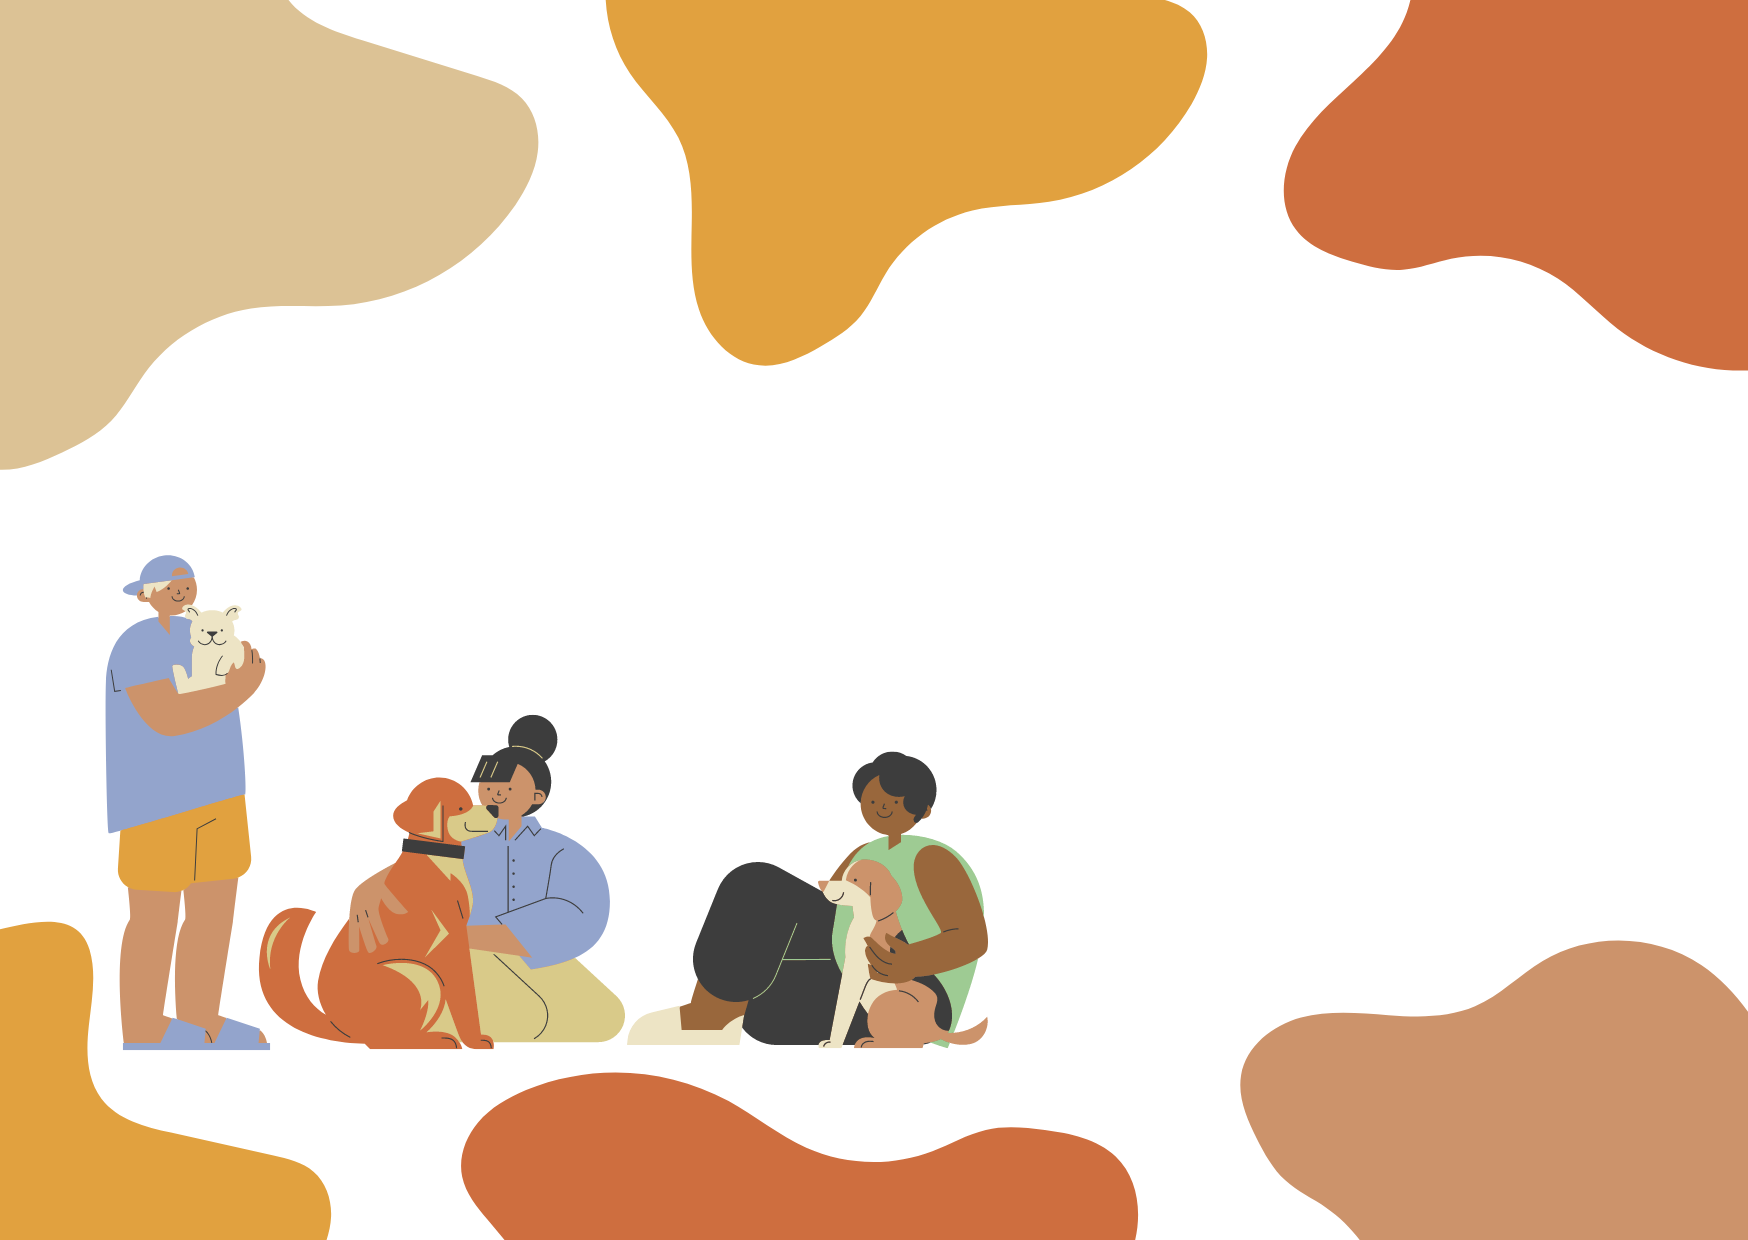
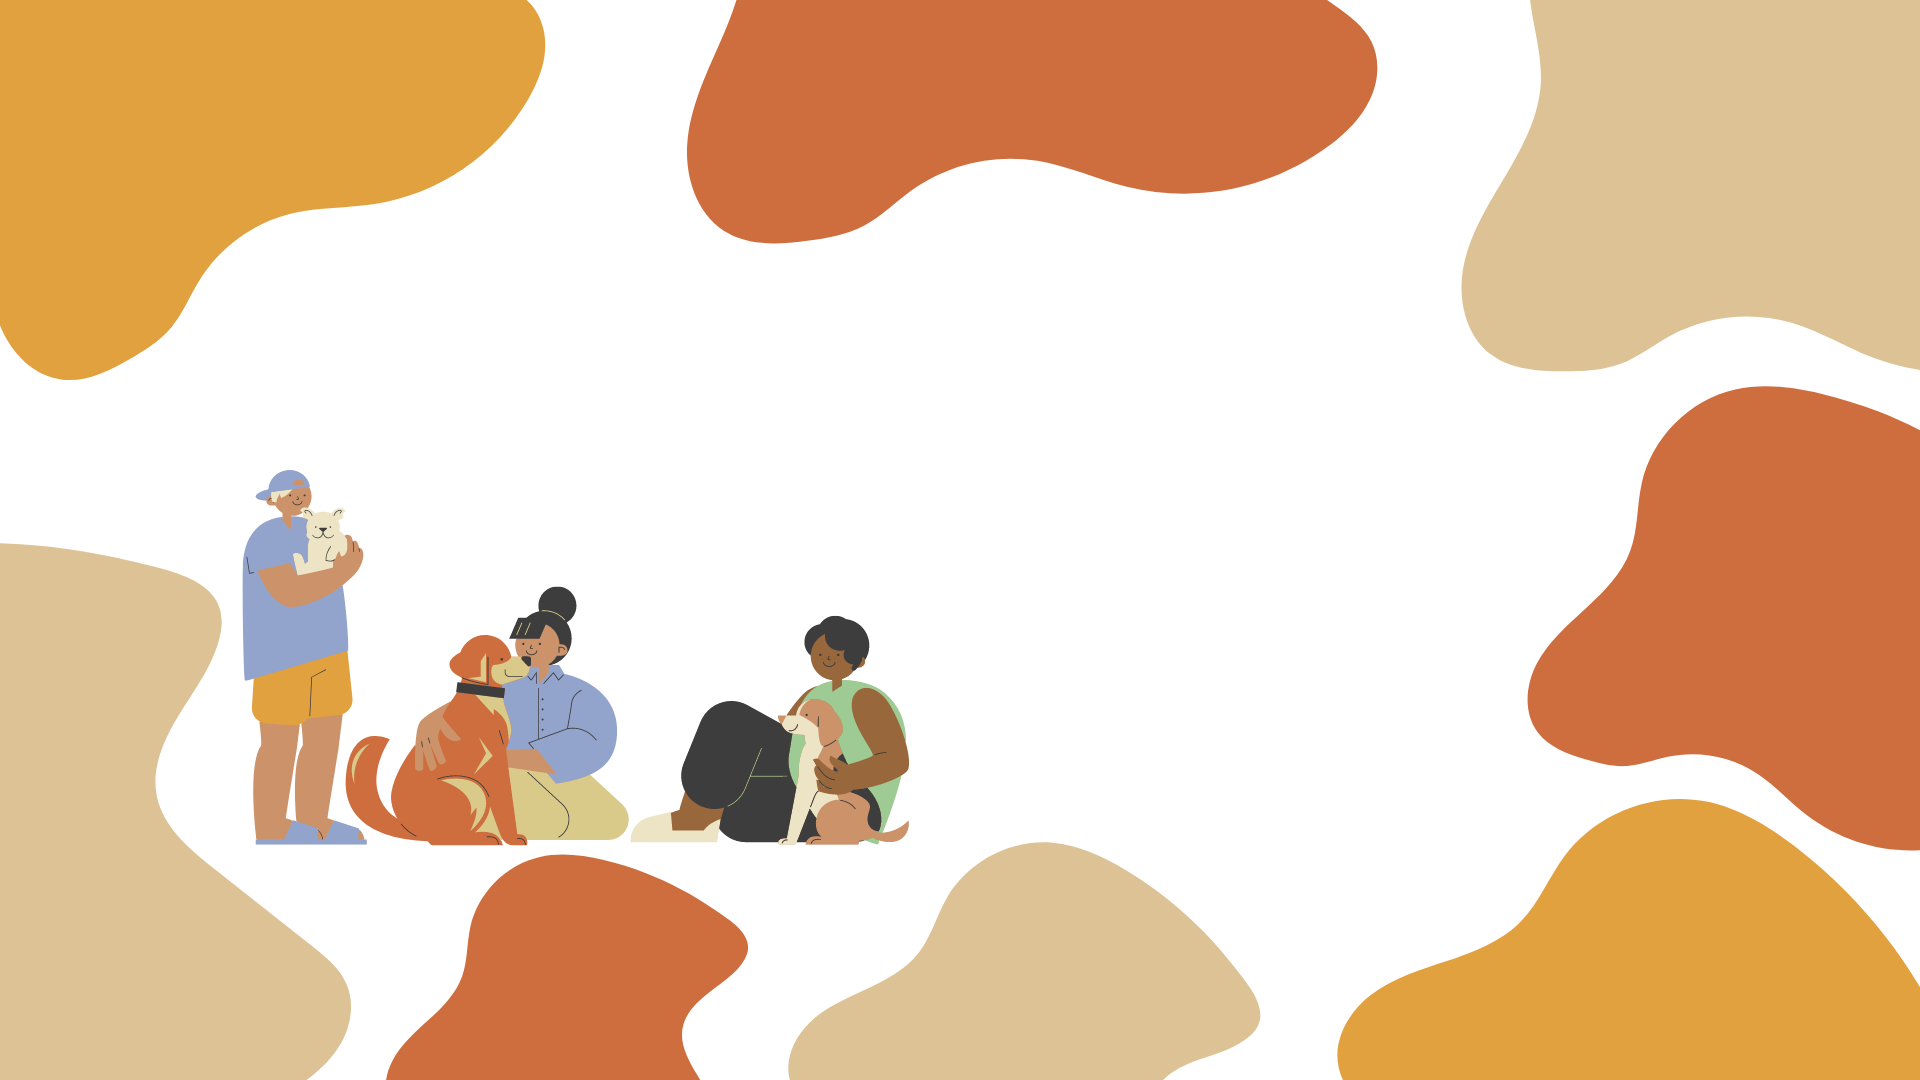
landing terminada estilos navbar

diff --git a/client/src/components/LandingPage.jsx b/client/src/components/LandingPage.jsx
@@ -34,79 +34,79 @@ export default function LandingPage() {
     })
 
     return (
-        <div id="landing" className="flex w-screen">
-        <div className="flex flex-col-6 m-5 mx-9 mt-8 w-screen items-center">
-            <div className="text-gray-800 m-14 p-14">
-                <h1 className="text-6xl font-semibold">Bienvenidos a </h1>
-                <p className="text-6xl font-normal italic">'Happy Tails'</p>
-                <br />
-                <p className="self-center mb-6 text-xl font-light text-gray-600 sm:text-2xl">Somos una organización sin fines de lucro con el objetivo de encontrar un hogar feliz para nuestros amigos de 4 patas...</p>
+        <div id="landing" className="flex">
+            <div className="flex flex-col-6 items-center">
+                <div className="text-gray-800 p-20 pt-0 tracking-wide">
+                    <h1 className="text-6xl font-semibold">Bienvenidos a </h1>
+                    <p className="text-6xl font-normal italic bg-gray">'Happy Tails'</p>
+                    <br />
+                    <p className="self-center mb-6 text-xl font-light italic tracking-wide text-gray-600 sm:text-2xl">Somos una organización sin fines de lucro con el objetivo de encontrar un hogar feliz para nuestros amigos de 4 patas...</p>
 
-                {/* <img src="s" /> */}
+                    {/* <img src="s" /> */}
+
+                </div>
+
+                <div className="flex flex-col w-full max-w-md m-14 mr-24 mt-0 py-8 bg-amber-600 rounded-lg shadow sm:px-6 md:px-8 lg:px-10">
+                    <div className="self-center mb-6 text-xl font-light text-gray-600 sm:text-2xl dark:text-white">
+                        Ingrese a su cuenta
+                    </div>
+                    <div className="mt-8">
+                        <form action="#" autoComplete="off">
+                            <div className="flex flex-col mb-2">
+                                <div className="flex relative">
+                                    <span className="rounded-l-md inline-flex  items-center px-3 border-t bg-white border-l border-b  border-gray-300 text-gray-500 shadow-sm text-sm">
+                                        <svg width="15" height="15" fill="currentColor" viewBox="0 0 1792 1792" xmlns="http://www.w3.org/2000/svg">
+                                            <path d="M1792 710v794q0 66-47 113t-113 47h-1472q-66 0-113-47t-47-113v-794q44 49 101 87 362 246 497 345 57 42 92.5 65.5t94.5 48 110 24.5h2q51 0 110-24.5t94.5-48 92.5-65.5q170-123 498-345 57-39 100-87zm0-294q0 79-49 151t-122 123q-376 261-468 325-10 7-42.5 30.5t-54 38-52 32.5-57.5 27-50 9h-2q-23 0-50-9t-57.5-27-52-32.5-54-38-42.5-30.5q-91-64-262-182.5t-205-142.5q-62-42-117-115.5t-55-136.5q0-78 41.5-130t118.5-52h1472q65 0 112.5 47t47.5 113z">
+                                            </path>
+                                        </svg>
+                                    </span>
+                                    <input type="text" value={input.email} id="sign-in-email" className=" rounded-r-lg flex-1 appearance-none border border-gray-300 w-full py-2 px-4 bg-white text-gray-700 placeholder-gray-400 shadow-sm text-base focus:outline-none focus:ring-2 focus:ring-yellow-800 focus:border-transparent" placeholder="Complete su email" />
+                                    {errors.email && (<p>{errors.email}</p>)}
+                                </div>
+                            </div>
+                            <div className="flex flex-col mb-6">
+                                <div className="flex relative ">
+                                    <span className="rounded-l-md inline-flex  items-center px-3 border-t bg-white border-l border-b  border-gray-300 text-gray-500 shadow-sm text-sm">
+                                        <svg width="15" height="15" fill="currentColor" viewBox="0 0 1792 1792" xmlns="http://www.w3.org/2000/svg">
+                                            <path d="M1376 768q40 0 68 28t28 68v576q0 40-28 68t-68 28h-960q-40 0-68-28t-28-68v-576q0-40 28-68t68-28h32v-320q0-185 131.5-316.5t316.5-131.5 316.5 131.5 131.5 316.5q0 26-19 45t-45 19h-64q-26 0-45-19t-19-45q0-106-75-181t-181-75-181 75-75 181v320h736z">
+                                            </path>
+                                        </svg>
+                                    </span>
+                                    <input type="password" id="sign-in-email" value={input.password} className=" rounded-r-lg flex-1 appearance-none border border-gray-300 w-full py-2 px-4 bg-white text-gray-700 placeholder-gray-400 shadow-sm text-base focus:outline-none focus:ring-2 focus:ring-yellow-800 focus:border-transparent" placeholder="Complete su contraseña" />
+                                    {errors.password && (<p>{errors.password}</p>)}
+                                </div>
+                            </div>
+                            <div className="flex items-center mb-6 -mt-4">
+                                <div className="flex ml-auto">
+                                    <span className="inline-flex text-s font-thin text-gray-500 sm:text-sm dark:text-gray-100 hover:text-gray-700 dark:hover:text-yellow-900">
+                                        ¿Has olvidado tu contraseña? Ingresa aquí.
+                                    </span>
+                                </div>
+                            </div>
+                            <div className="flex w-full">
+                                <Link to="/home" className="py-2 px-4  bg-yellow-800 hover:bg-yellow-900 focus:ring-yellow-900 focus:ring-offset-yellow-200 text-white w-full transition ease-in duration-200 text-center text-base font-semibold shadow-md focus:outline-none focus:ring-2 focus:ring-offset-2  rounded-lg">
+                                    <button type="submit" >
+                                        Ingresar
+                                    </button>
+                                </Link>
+                            </div>
+
+                        </form>
+                    </div>
+
+                    <div className="flex items-center justify-center mt-6">
+
+                        <Link to="/register" className="inline-flex items-center text-s font-thin text-center text-gray-500 hover:text-gray-700 dark:text-gray-100 dark:hover:text-yellow-900">
+                            <span className="ml-2">
+                                ¿No tiene una cuenta? Ingrese aquí.
+                            </span>
+                        </Link>
+
+                    </div>
+
+                </div>
 
             </div>
-
-            <div className="flex flex-col w-full max-w-md m-14 mr-24 py-8 bg-amber-600 rounded-lg shadow sm:px-6 md:px-8 lg:px-10">
-                <div className="self-center mb-6 text-xl font-light text-gray-600 sm:text-2xl dark:text-white">
-                    Ingrese a su cuenta
-                </div>
-                <div className="mt-8">
-                    <form action="#" autoComplete="off">
-                        <div className="flex flex-col mb-2">
-                            <div className="flex relative">
-                                <span className="rounded-l-md inline-flex  items-center px-3 border-t bg-white border-l border-b  border-gray-300 text-gray-500 shadow-sm text-sm">
-                                    <svg width="15" height="15" fill="currentColor" viewBox="0 0 1792 1792" xmlns="http://www.w3.org/2000/svg">
-                                        <path d="M1792 710v794q0 66-47 113t-113 47h-1472q-66 0-113-47t-47-113v-794q44 49 101 87 362 246 497 345 57 42 92.5 65.5t94.5 48 110 24.5h2q51 0 110-24.5t94.5-48 92.5-65.5q170-123 498-345 57-39 100-87zm0-294q0 79-49 151t-122 123q-376 261-468 325-10 7-42.5 30.5t-54 38-52 32.5-57.5 27-50 9h-2q-23 0-50-9t-57.5-27-52-32.5-54-38-42.5-30.5q-91-64-262-182.5t-205-142.5q-62-42-117-115.5t-55-136.5q0-78 41.5-130t118.5-52h1472q65 0 112.5 47t47.5 113z">
-                                        </path>
-                                    </svg>
-                                </span>
-                                <input type="text" value={input.email} id="sign-in-email" className=" rounded-r-lg flex-1 appearance-none border border-gray-300 w-full py-2 px-4 bg-white text-gray-700 placeholder-gray-400 shadow-sm text-base focus:outline-none focus:ring-2 focus:ring-yellow-800 focus:border-transparent" placeholder="Complete su email" />
-                                {errors.email && (<p>{errors.email}</p>)}
-                            </div>
-                        </div>
-                        <div className="flex flex-col mb-6">
-                            <div className="flex relative ">
-                                <span className="rounded-l-md inline-flex  items-center px-3 border-t bg-white border-l border-b  border-gray-300 text-gray-500 shadow-sm text-sm">
-                                    <svg width="15" height="15" fill="currentColor" viewBox="0 0 1792 1792" xmlns="http://www.w3.org/2000/svg">
-                                        <path d="M1376 768q40 0 68 28t28 68v576q0 40-28 68t-68 28h-960q-40 0-68-28t-28-68v-576q0-40 28-68t68-28h32v-320q0-185 131.5-316.5t316.5-131.5 316.5 131.5 131.5 316.5q0 26-19 45t-45 19h-64q-26 0-45-19t-19-45q0-106-75-181t-181-75-181 75-75 181v320h736z">
-                                        </path>
-                                    </svg>
-                                </span>
-                                <input type="password" id="sign-in-email" value={input.password} className=" rounded-r-lg flex-1 appearance-none border border-gray-300 w-full py-2 px-4 bg-white text-gray-700 placeholder-gray-400 shadow-sm text-base focus:outline-none focus:ring-2 focus:ring-yellow-800 focus:border-transparent" placeholder="Complete su contraseña" />
-                                {errors.password && (<p>{errors.password}</p>)}
-                            </div>
-                        </div>
-                        <div className="flex items-center mb-6 -mt-4">
-                            <div className="flex ml-auto">
-                                <span className="inline-flex text-s font-thin text-gray-500 sm:text-sm dark:text-gray-100 hover:text-gray-700 dark:hover:text-yellow-900">
-                                    ¿Has olvidado tu contraseña? Ingresa aquí.
-                                </span>
-                            </div>
-                        </div>
-                        <div className="flex w-full">
-                            <Link to="/home" className="py-2 px-4  bg-yellow-800 hover:bg-yellow-900 focus:ring-yellow-900 focus:ring-offset-yellow-200 text-white w-full transition ease-in duration-200 text-center text-base font-semibold shadow-md focus:outline-none focus:ring-2 focus:ring-offset-2  rounded-lg">
-                                <button type="submit" >
-                                    Ingresar
-                                </button>
-                            </Link>
-                        </div>
-
-                    </form>
-                </div>
-
-                <div className="flex items-center justify-center mt-6">
-                    
-                <Link to="/register" className="inline-flex items-center text-s font-thin text-center text-gray-500 hover:text-gray-700 dark:text-gray-100 dark:hover:text-yellow-900">
-                        <span className="ml-2">
-                            ¿No tiene una cuenta? Ingrese aquí.
-                        </span>
-                </Link>
-    
-                </div>
-
-            </div>
-
-        </div>
         </div>
     )
 

diff --git a/client/src/components/NavBar/NavBar.jsx b/client/src/components/NavBar/NavBar.jsx
@@ -1,37 +1,91 @@
 import React from "react";
 import { Link } from "react-router-dom";
 
+
 export default function NavBar() {
   return (
-    <section className="flex justify-center h-14">
-      <div className="bg-yellow-800 flex justify-between border-b-4 border-white w-screen justify-center content-around items-center px-4">
-        <div className="flex">
-          <h1 className="text-white text-2xl font-semibold">Happy Tails</h1>
-        </div>
-        <div className="flex w-80 justify-around">
-          <Link to={"/home"}>
-            <h2 className="text-black text-2xl font-semibold">Home</h2>
-          </Link>
-          <Link to={"/pasarela"}>
-            <h2 className="text-black text-2xl font-semibold">Donate</h2>
-          </Link>
-          <Link to={"/about"}>
-            <h2 className="text-black text-2xl font-semibold">About</h2>
-          </Link>
-        </div>
+    // <nav className="flex justify-center h-14">
+    //   <div className="bg-yellow-800 flex justify-between border-b-4 border-white w-screen justify-center content-around items-center px-4">
+    //     <div className="flex">
+    //       <h1 className="text-white text-2xl font-semibold">Happy Tails</h1>
+    //     </div>
+    //     <div className="flex w-80 justify-around">
+    //       <Link to={"/home"}>
+    //         <h2 className="text-black text-2xl font-semibold">Home</h2>
+    //       </Link>
+    //       <Link to={"/pasarela"}>
+    //         <h2 className="text-black text-2xl font-semibold">$$$</h2>
+    //       </Link>
+    //       <Link to={"/about"}>
+    //         <h2 className="text-black text-2xl font-semibold">About</h2>
+    //       </Link>
+    //     </div>
 
-        <div className="flex gap-3 items-center">
-          {/* <Link to={'/user/' + idUser }> */}
-          <p className="text-gray-50 font-semibold">Lautaro Martín</p>
-          <img
-            src="https://img.freepik.com/fotos-premium/hombre-caucasico-joven-persona-pared-blanca-apuntando-mano-camisa-blanco-orgulloso-confiado_1187-76423.jpg?w=740"
-            alt="logo"
-            width="9px"
-            className="mx-auto object-cover rounded-full h-9 w-9 "
-          />
-          {/* </Link> */}
+    //     <div className="flex gap-3 items-center">
+    //       <p className="text-gray-50 font-semibold">Lautaro Martín</p>
+    //       <img
+    //         src="https://img.freepik.com/fotos-premium/hombre-caucasico-joven-persona-pared-blanca-apuntando-mano-camisa-blanco-orgulloso-confiado_1187-76423.jpg?w=740"
+    //         alt="logo"
+    //         width="9px"
+    //         className="mx-auto object-cover rounded-full h-9 w-9 "
+    //       />
+    //     </div>
+    //   </div>
+    // </nav>
+    <nav className="bg-white border-gray-200 px-2 sm:px-4 py-2.5 rounded dark:bg-amber-800 w-screen">
+      <div className="container flex flex-wrap justify-between items-center mx-auto">
+        <Link to="/home" className="flex items-center">
+          <img src="https://cdn-icons-png.flaticon.com/512/194/194279.png" className="mr-3 h-6 sm:h-9" alt="Flowbite Logo" />
+          <span className="self-center text-xl font-semibold whitespace-nowrap dark:text-white">Happy Tails</span>
+        </Link>
+        <div className="flex items-center md:order-2">
+          <button type="button" className="flex mr-3 text-sm bg-gray-800 rounded-full md:mr-0 focus:ring-4 focus:ring-gray-300 dark:focus:ring-gray-600" id="user-menu-button" aria-expanded="false" data-dropdown-toggle="user-dropdown" data-dropdown-placement="bottom">
+            <span className="sr-only">Open user menu</span>
+            <img className="w-8 h-8 rounded-full" src="https://img.freepik.com/fotos-premium/hombre-caucasico-joven-persona-pared-blanca-apuntando-mano-camisa-blanco-orgulloso-confiado_1187-76423.jpg?w=740" alt="foto perfil" />
+          </button>
+          {/* <!-- Dropdown menu --> */}
+          <div className="hidden z-50 my-4 text-base list-none bg-white rounded divide-y divide-gray-100 shadow dark:bg-gray-700 dark:divide-gray-600" id="user-dropdown">
+            <div className="py-3 px-4">
+              <span className="block text-sm text-gray-900 dark:text-white">Bonnie Green</span>
+              <span className="block text-sm font-medium text-gray-500 truncate dark:text-gray-400">name@flowbite.com</span>
+            </div>
+            <ul className="py-1" aria-labelledby="user-menu-button">
+              <li>
+                <a href="#" className="block py-2 px-4 text-sm text-gray-700 hover:bg-gray-100 dark:hover:bg-gray-600 dark:text-gray-200 dark:hover:text-white">Dashboard</a>
+              </li>
+              <li>
+                <a href="#" className="block py-2 px-4 text-sm text-gray-700 hover:bg-gray-100 dark:hover:bg-gray-600 dark:text-gray-200 dark:hover:text-white">Settings</a>
+              </li>
+              <li>
+                <a href="#" className="block py-2 px-4 text-sm text-gray-700 hover:bg-gray-100 dark:hover:bg-gray-600 dark:text-gray-200 dark:hover:text-white">Earnings</a>
+              </li>
+              <li>
+                <a href="#" className="block py-2 px-4 text-sm text-gray-700 hover:bg-gray-100 dark:hover:bg-gray-600 dark:text-gray-200 dark:hover:text-white">Sign out</a>
+              </li>
+            </ul>
+          </div>
+          <button data-collapse-toggle="mobile-menu-2" type="button" class="inline-flex items-center p-2 ml-1 text-sm text-gray-500 rounded-lg md:hidden hover:bg-gray-100 focus:outline-none focus:ring-2 focus:ring-gray-200 dark:text-gray-400 dark:hover:bg-gray-700 dark:focus:ring-gray-600" aria-controls="mobile-menu-2" aria-expanded="false">
+            <span class="sr-only">Open main menu</span>
+            <svg class="w-6 h-6" aria-hidden="true" fill="currentColor" viewBox="0 0 20 20" xmlns="http://www.w3.org/2000/svg"><path fill-rule="evenodd" d="M3 5a1 1 0 011-1h12a1 1 0 110 2H4a1 1 0 01-1-1zM3 10a1 1 0 011-1h12a1 1 0 110 2H4a1 1 0 01-1-1zM3 15a1 1 0 011-1h12a1 1 0 110 2H4a1 1 0 01-1-1z" clip-rule="evenodd"></path></svg>
+          </button>
+        </div>
+        <div class="hidden justify-between items-center w-full md:flex md:w-auto md:order-1" id="mobile-menu-2">
+          <ul class="flex flex-col p-4 mt-4 bg-gray-50 rounded-lg border border-amber-100 md:flex-row md:space-x-8 md:mt-0 md:text-sm md:font-medium md:border-0 md:bg-white dark:bg-amber-800 md:dark:bg-amber-800 dark:border-amber-700">
+            <li>
+              <Link to="/home" className="block py-2 pr-4 pl-3 text-white rounded hover:bg-gray-100 md:hover:bg-transparent md:hover:text-blue-700 md:p-0 dark:text-gray-400 md:dark:hover:text-white dark:hover:bg-gray-700 dark:hover:text-white md:dark:hover:bg-transparent dark:border-gray-700" >Inicio
+              </Link>
+            </li>
+
+            <li>
+              <Link to="/donations" className="block py-2 pr-4 pl-3 text-gray-700 rounded hover:bg-gray-100 md:hover:bg-transparent md:hover:text-blue-700 md:p-0 dark:text-gray-400 md:dark:hover:text-white dark:hover:bg-gray-700 dark:hover:text-white md:dark:hover:bg-transparent dark:border-gray-700">Donaciones
+              </Link>
+            </li>
+            <li>
+              <Link to="/about" className="block py-2 pr-4 pl-3 text-gray-700 rounded hover:bg-gray-100 md:hover:bg-transparent md:hover:text-blue-700 md:p-0 dark:text-gray-400 md:dark:hover:text-white dark:hover:bg-gray-700 dark:hover:text-white md:dark:hover:bg-transparent dark:border-gray-700" >Sobre Nosotros</Link>
+            </li>
+          </ul>
         </div>
       </div>
-    </section>
+    </nav>
   );
 }

diff --git a/client/src/components/Home/Home.jsx b/client/src/components/Home/Home.jsx
@@ -6,11 +6,10 @@ import SideBar from "../SideBar/SideBar";
 export default function Home() {
   return (
     <>
+    <section className="fixed">
+      <NavBar />
+</section>
       <div className="flex flex-col">
-        <section className="fixed">
-          <NavBar />
-        </section>
-
         <div className="flex flex-row bg-gray-200 w-screen">
           <section className="flex w-1/3 fixed mt-14">
             <SideBar />

diff --git a/client/src/components/Details/PetDetail.jsx b/client/src/components/Details/PetDetail.jsx
@@ -27,7 +27,7 @@ export default function PetDetail() {
                 <h3>Descripcion: {petDetail.description}</h3>
                 <h3>Lugar donde se encuntra: {petDetail.place}</h3>
                 <h3>Medida aproximada: {petDetail.size}</h3>
-                <h3>Vaccination: {petDetail.vaccination}</h3>
+                <h3>¿Está vacunado?: {petDetail.vaccination}</h3>
             </div>
         </div>
     )

diff --git a/client/src/components/LandingPage.css b/client/src/components/LandingPage.css
@@ -1,4 +1,7 @@
 #landing {
-    background-image: url("../../public/images/Landing.png");
-    
+    background-image: url("../../public/images/Landingpage.png");
+    background-repeat: no-repeat;
+    background-size: cover;
+    height: 100vh;
+    width: 100vw;
 }
